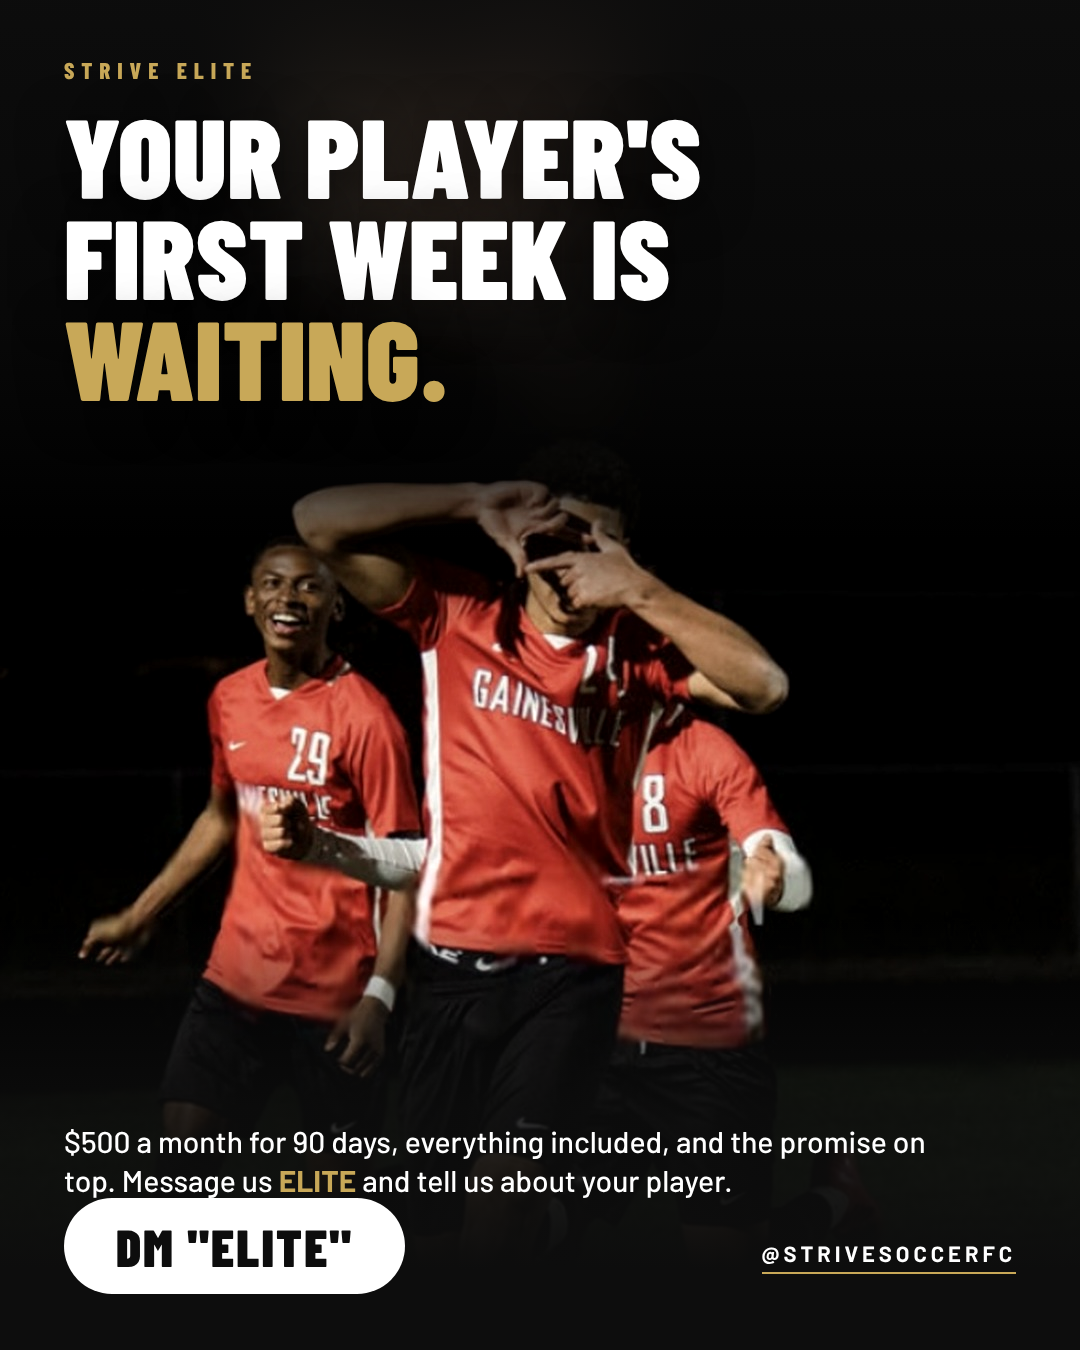
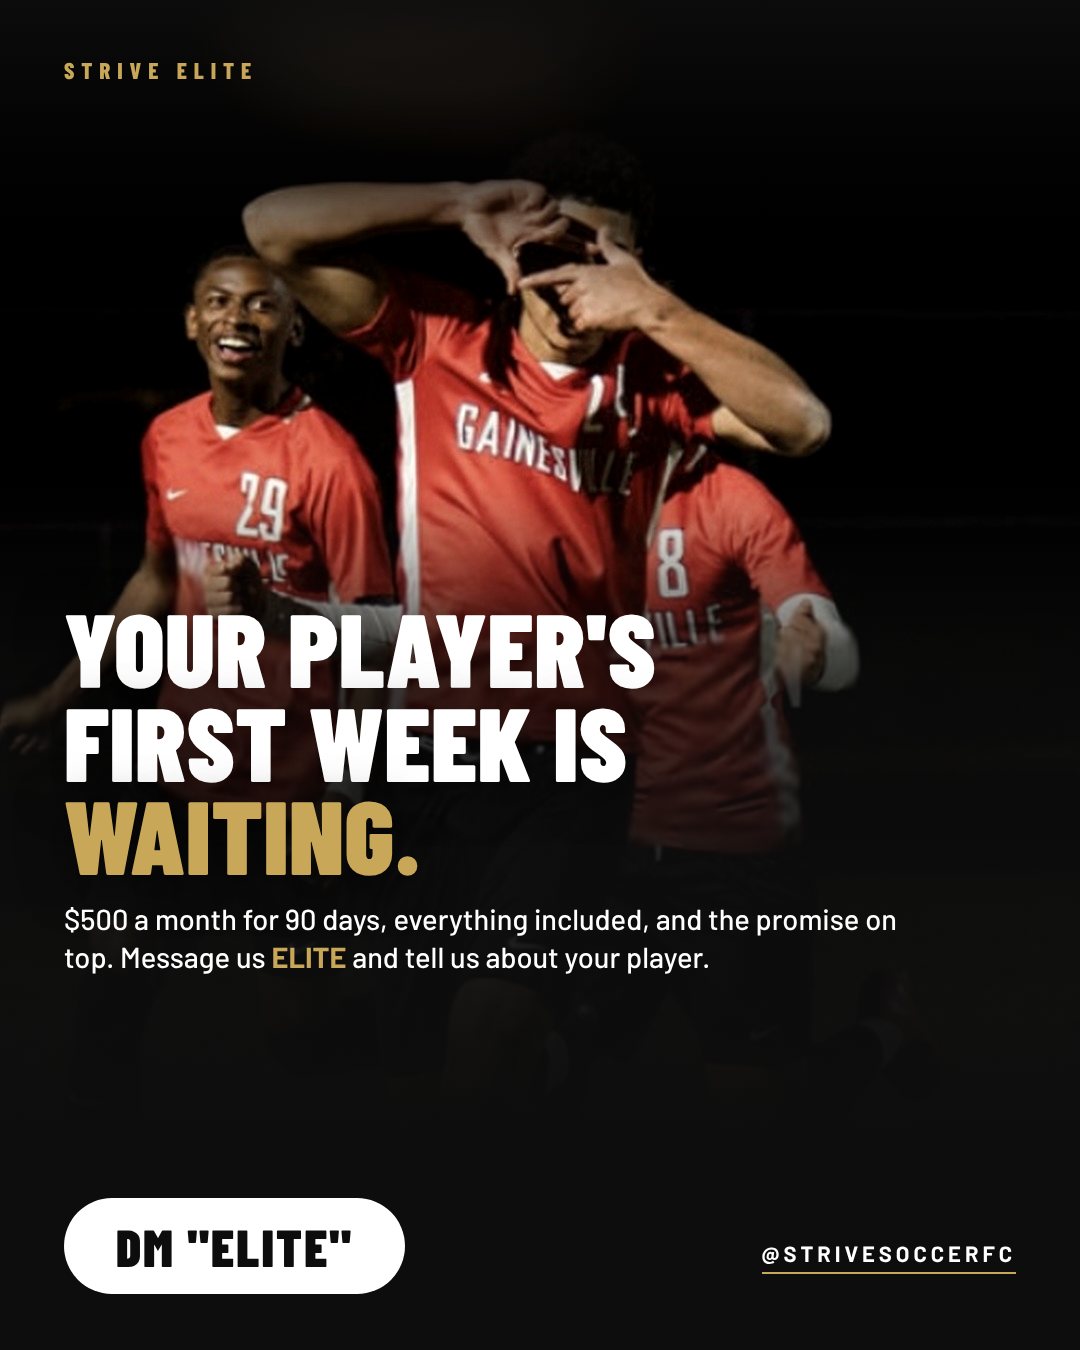
Offer carousel: close headline from mid chest down
The celebration photo fills the top of the close, the headline starts
at mid chest, the price line and DM pill under it. Record updated.

Claude-Session: https://claude.ai/code/session_011JsCTTjCbUkHbTuWTKQSXJ

diff --git a/marketing/announcement/offer-post/close.html b/marketing/announcement/offer-post/close.html
@@ -6,12 +6,12 @@
 html,body{width:1080px;height:1350px;background:#0d0d0d;overflow:hidden}
 body{font-family:'Barlow',sans-serif;color:#fff;position:relative}
 .ph{position:absolute;inset:0;background:#0d0d0d url(photos/close.jpg) center top/1080px 1350px;filter:saturate(.85) contrast(1.06)}
-.sh{position:absolute;inset:0;background:linear-gradient(180deg,rgba(13,13,13,.95) 0%,rgba(13,13,13,.6) 24%,rgba(13,13,13,0) 40%,rgba(13,13,13,0) 68%,rgba(13,13,13,.85) 82%,#0d0d0d 94%)}
+.sh{position:absolute;inset:0;background:linear-gradient(180deg,rgba(13,13,13,.9) 0%,rgba(13,13,13,.3) 9%,rgba(13,13,13,0) 16%,rgba(13,13,13,0) 36%,rgba(13,13,13,.7) 50%,rgba(13,13,13,.9) 64%,#0d0d0d 84%)}
 .kick{position:absolute;left:64px;top:56px;font-family:'Barlow Condensed';font-weight:800;font-size:23px;letter-spacing:.3em;text-transform:uppercase;color:#c8a858}
-h1{position:absolute;left:64px;top:104px;right:64px;font-family:'Barlow Condensed';font-weight:900;font-size:112px;line-height:.9;text-transform:uppercase;letter-spacing:.005em;text-shadow:0 8px 50px rgba(0,0,0,.6)}
+h1{position:absolute;left:64px;top:600px;right:64px;font-family:'Barlow Condensed';font-weight:900;font-size:104px;line-height:.9;text-transform:uppercase;letter-spacing:.005em;text-shadow:0 8px 50px rgba(0,0,0,.6)}
 h1 span{color:#c8a858}
-.low{position:absolute;left:64px;right:64px;bottom:150px}
-.sub{font-size:30px;line-height:1.3;font-weight:500;max-width:880px}
+.low{position:absolute;left:64px;right:64px;top:900px}
+.sub{font-size:29px;line-height:1.3;font-weight:500;max-width:880px}
 .sub b{font-weight:700;color:#c8a858}
 .cta{position:absolute;left:64px;bottom:56px;background:#fff;color:#0d0d0d;font-family:'Barlow Condensed';font-weight:900;font-size:52px;letter-spacing:.04em;text-transform:uppercase;padding:22px 52px;border-radius:999px;line-height:1}
 .handle{position:absolute;right:64px;bottom:76px;font-weight:700;font-size:22px;letter-spacing:.18em;text-transform:uppercase}

diff --git a/marketing/announcement/offer-post/compose-photos.py b/marketing/announcement/offer-post/compose-photos.py
@@ -6,7 +6,7 @@
 # of the space above our head."
 from PIL import Image, ImageFilter, ImageEnhance
 S="photos/src/"; F=220
-def comp(src,k,head,target,out,canvas=(1080,1350),mirror=False):
+def comp(src,k,head,target,out,canvas=(1080,1350),mirror=False,band_bright=.8):
     im=Image.open(S+src).convert("RGB")
     if mirror: im=im.transpose(Image.FLIP_LEFT_RIGHT)
     im=im.resize((round(im.width*k),round(im.height*k)),Image.LANCZOS)
@@ -16,7 +16,7 @@ def comp(src,k,head,target,out,canvas=(1080,1350),mirror=False):
         # continue the photo upward: the top rows reflected, stretched, blurred and darkened,
         # feathered into the real edge so there is no hard line under the headline
         band=im.crop((0,0,im.width,120)).transpose(Image.FLIP_TOP_BOTTOM).resize((im.width,y+F),Image.LANCZOS)
-        band=band.filter(ImageFilter.GaussianBlur(60)); band=ImageEnhance.Brightness(band).enhance(.8)
+        band=band.filter(ImageFilter.GaussianBlur(60)); band=ImageEnhance.Brightness(band).enhance(band_bright)
         c.paste(band,(x,0))
         mask=Image.linear_gradient("L").resize((im.width,F))  # 0 at top -> 255 at bottom
         top=im.crop((0,0,im.width,F)); c.paste(top,(x,y),mask)
@@ -32,4 +32,4 @@ comp("gary-ecnl-captain.jpg",1.6,(340,95),(430,490),"photos/step4.jpg")
 l=comp("yinka-college-lineup.jpg",0.9,(540,270),(270,510),None,(540,1350))
 r=comp("gary-fortuna-koln.png",0.9,(560,560),(270,510),None,(540,1350))
 c=Image.new("RGB",(1080,1350),(13,13,13)); c.paste(l,(0,0)); c.paste(r,(540,0)); c.save("photos/step5.jpg",quality=92)
-comp("yinka-gainesville-celebration.jpg",1.6,(520,80),(560,540),"photos/close.jpg")
+comp("yinka-gainesville-celebration.jpg",1.9,(520,80),(560,250),"photos/close.jpg",band_bright=.3)  # close: the headline starts at mid chest (Coach Yinka, Nov 4)

diff --git a/CLAUDE.md b/CLAUDE.md
@@ -3336,6 +3336,17 @@ commit.
       placements now live in compose-photos.py in the folder (run from
       there; rebuilds photos/stepN.jpg and close.jpg), so the crops are
       reproducible. Re-rendered, preview strip rebuilt. Sent.
+      THEN (Coach Yinka, on the close: "I want the text to cover my
+      middle chest and down, crop in a way that looks good"): the
+      CLOSE is the one slide with the headline LOW. The celebration
+      photo scaled to 1.9x with the heart hands and his face in the
+      top third under the "Strive Elite" eyebrow, the headline starting
+      at his mid chest (y 600) and running down, the price line
+      directly under it, the DM "ELITE" pill and the handle at the
+      bottom; the gradient darkens from the chest down so the text
+      reads. The reflected top band is dimmed hard on this one (night
+      sky lights turned it brown at the default). The five step slides
+      keep the headline at the top. Preview strip rebuilt. Sent.
 
 ## Growth target (stamped Sept 19, Coach Yinka's own call)
 

diff --git a/marketing/announcement/strive-elite-offer-post.md b/marketing/announcement/strive-elite-offer-post.md
@@ -86,6 +86,10 @@ in the negative space at the top, the coach's face in a clear band around
 the middle with nothing over it, the one sentence and the gold chips low;
 each photo is pre-composed into photos/stepN.jpg or photos/close.jpg so
 the face lands in that band, and the page shows it full-frame.
+The close is the exception, on his word ("the text to cover my middle
+chest and down"): the celebration photo fills the top, the headline starts
+at mid chest and runs down, the price line and the DM pill under it.
+Crops are rebuilt by compose-photos.py in the folder.
 (Earlier cut: one full-frame image from Strive's own footage (public/drills frames:
 juggling thighs high, the cross, weak foot tap pull push, the 15 yard
 sprint; Gary's Fortuna Koln photo on step 5), one headline, one sentence,)
